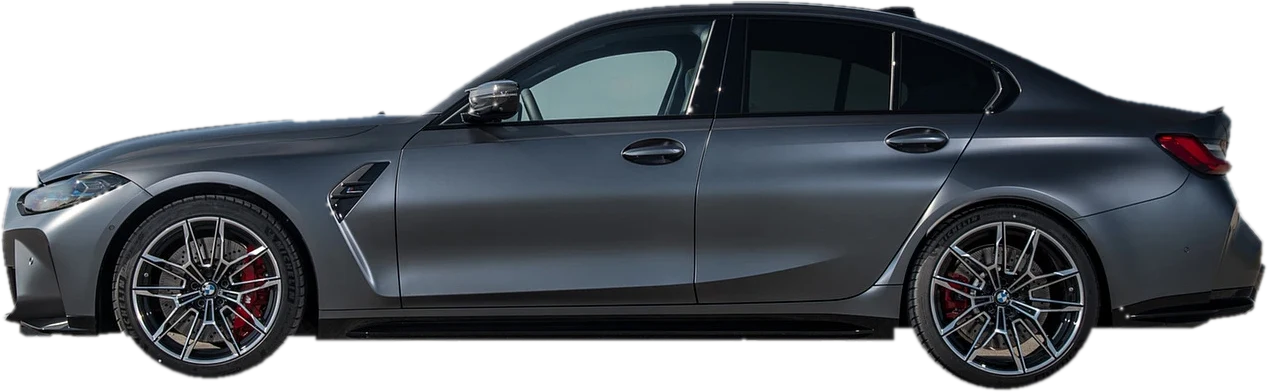
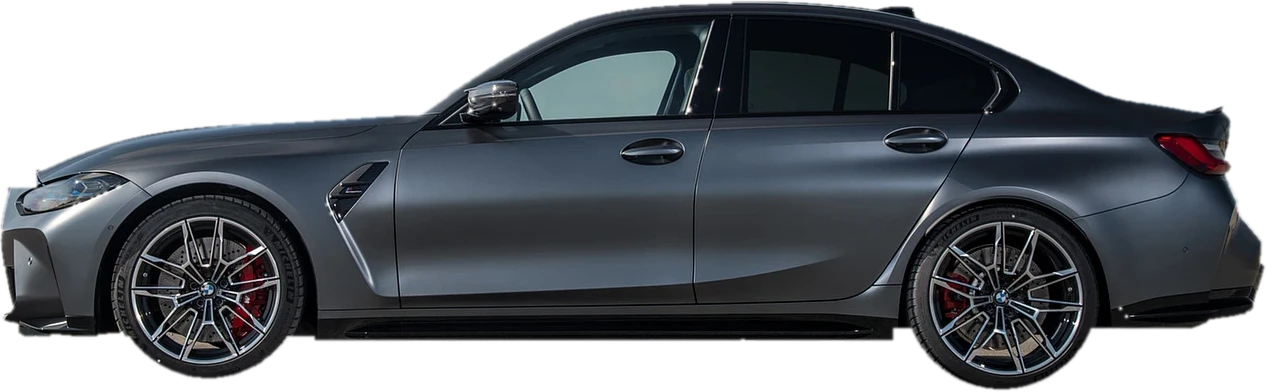
Affine le détourage du capot et fait tourner les roues sur la route
Claude-Session: https://claude.ai/code/session_01UhdDFA4rTzXMCtaKgKtiqz

diff --git a/site/index.html b/site/index.html
@@ -149,13 +149,16 @@ h3 { font-size: 1.4rem; font-weight: 600; letter-spacing: -0.015em; line-height:
 /* Silhouette qui se dessine */
 .scene { position: relative; min-width: 0; padding-block: 72px 60px; }
 .auto { position: relative; }
-.auto__img { position: relative; width: 100%; height: auto; filter: drop-shadow(0 24px 30px rgba(0, 0, 0, 0.7)); }
-.anim .auto__img { animation: arrivee 1.6s var(--fluide) both; }
+.auto__caisse { position: relative; filter: drop-shadow(0 24px 30px rgba(0, 0, 0, 0.7)); }
+.auto__img { width: 100%; height: auto; }
+.auto__roue { position: absolute; height: auto; max-width: none; animation: roule 0.9s linear infinite; }
+@keyframes roule { to { transform: rotate(-360deg); } }
+.anim .auto__caisse { animation: arrivee 1.6s var(--fluide) both; }
 @keyframes arrivee { from { transform: translateX(22%); opacity: 0; filter: blur(8px); } }
 .auto__halo { position: absolute; inset: 8% 4% -6%; border-radius: 50%; background: radial-gradient(closest-side, rgba(37, 197, 240, 0.4), rgba(44, 107, 255, 0.18) 55%, transparent); filter: blur(34px); animation: pouls 5s ease-in-out infinite alternate; }
 @keyframes pouls { to { opacity: 0.55; transform: scale(1.06); } }
 .auto__sol { position: absolute; left: 3%; right: 3%; bottom: -1.5%; height: 9%; border-radius: 50%; background: radial-gradient(closest-side, rgba(0, 0, 0, 0.9), transparent); }
-.auto__route { display: block; height: 3px; margin-top: 26px; border-radius: 3px; background: repeating-linear-gradient(90deg, rgba(37, 197, 240, 0.6) 0 46px, transparent 46px 80px); animation: route 1.1s linear infinite; }
+.auto__route { display: block; position: relative; height: 4px; margin-top: 3px; border-radius: 3px; background: repeating-linear-gradient(90deg, rgba(37, 197, 240, 0.6) 0 46px, transparent 46px 80px); animation: route 1.1s linear infinite; }
 @keyframes route { to { background-position: -80px 0; } }
 .bulle {
   position: absolute; display: flex; align-items: center; gap: 10px; padding: 10px 16px; border-radius: 16px;
@@ -342,7 +345,11 @@ fieldset.champ { border: 0; margin: 0; padding: 0; }
         <div class="scene" aria-hidden="true">
           <div class="auto">
             <span class="auto__halo"></span>
-            <img class="auto__img" src="assets/voiture.webp" alt="" width="1268" height="392">
+            <div class="auto__caisse">
+              <img class="auto__img" src="assets/voiture.webp" alt="" width="1267" height="392">
+              <img class="auto__roue" style="left:10.024%;top:53.827%;width:12.313%" src="assets/roue-avant.webp" alt="" width="156" height="156">
+              <img class="auto__roue" style="left:73.481%;top:56.122%;width:12.155%" src="assets/roue-arriere.webp" alt="" width="154" height="154">
+            </div>
             <span class="auto__sol"></span>
             <span class="auto__route"></span>
           </div>
